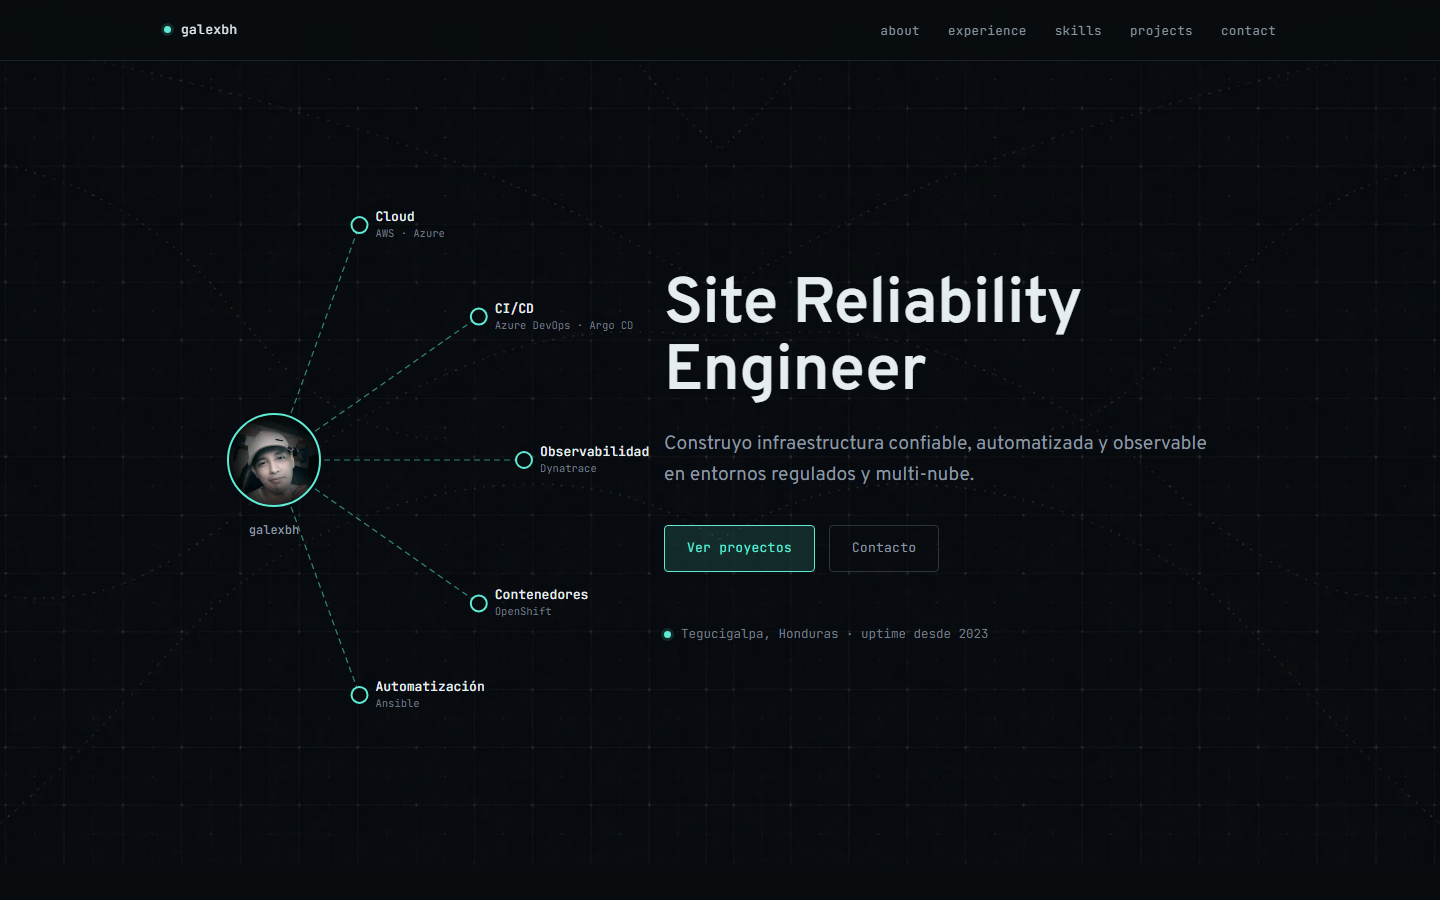
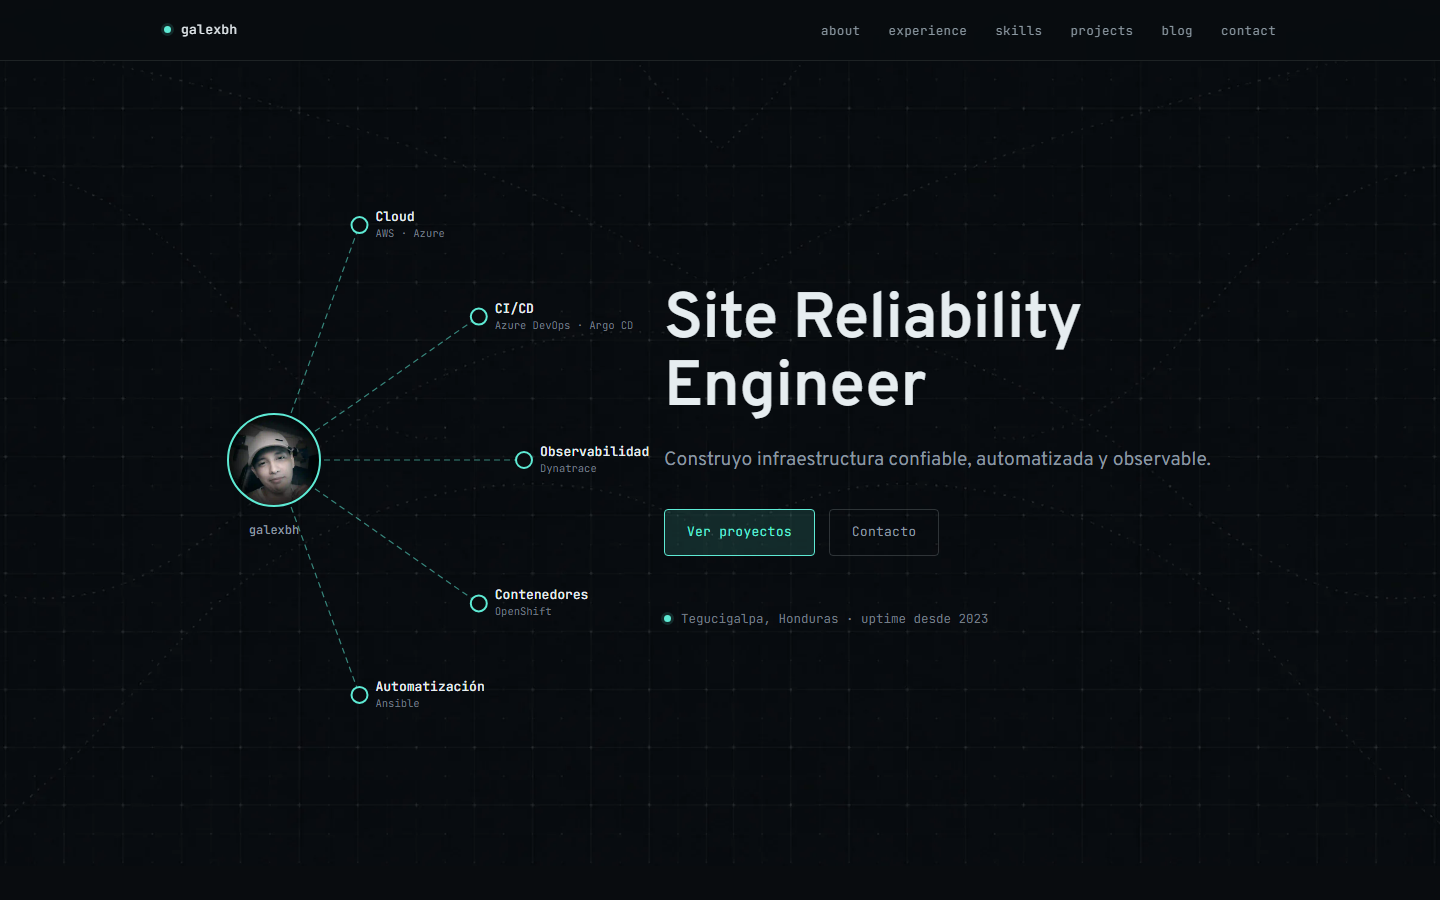
Generalize positioning copy away from banking/regulated framing
Per request: the hero, about, badge, and contact copy read too narrowly as
"regulated banking SRE" — softened to general SRE/production credibility
that still cites the same real facts (ITIL, RCA, metrics, stack) without
gatekeeping the narrative to one industry.

- Hero subheadline: dropped "en entornos regulados y multi-nube"
- About intro: "gestión de incidentes bajo ITIL, en entornos bancarios
  regulados" -> "manejo de prácticas ITIL" (drops the incident-only framing
  and the banking qualifier)
- About closing: "administración de aplicaciones bancarias" -> "aplicaciones
  críticas"
- Badge: "Experiencia en entornos regulados" -> "Experiencia en entornos
  críticos"
- Contact prompt: "¿Buscas SRE con experiencia real en banca regulada?" ->
  "¿Buscas un SRE con experiencia real en producción?"
- Projects block-note: "confidencialidad bancaria" -> "confidencialidad
  empresarial"
- PRODUCT.md (Users/Purpose/Positioning/Principles) and portfolio-spec.md
  updated to match, so both stay accurate to the new positioning

Left untouched, deliberately: real project entries and experience bullets
that describe actual banking-sector work history (INFATLAN, "Administración
de aplicaciones bancarias críticas", etc.) — those are factual work history,
not narrative positioning, and weren't part of what was asked to change.

diff --git a/keystatic.config.ts b/keystatic.config.ts
@@ -33,7 +33,7 @@ export default config({
           { label: 'Vertientes', itemLabel: (p) => p.fields.label.value || 'Vertiente' }
         ),
         aboutClosing: fields.text({ label: 'Sobre mí — párrafo de cierre', multiline: true }),
-        regulatedBadge: fields.text({ label: 'Badge de entornos regulados' }),
+        regulatedBadge: fields.text({ label: 'Badge de entornos críticos' }),
 
         capabilityNodes: fields.array(
           fields.object({

diff --git a/portfolio-spec.md b/portfolio-spec.md
@@ -28,7 +28,7 @@
 Site Reliability Engineer
 
 **Subheadline:**
-Construyo infraestructura confiable, automatizada y observable en entornos regulados y multi-nube.
+Construyo infraestructura confiable, automatizada y observable.
 
 **CTA sugerido:** botón "Ver proyectos" + botón "Contacto" / enlace a CV descargable.
 
@@ -36,7 +36,7 @@ Construyo infraestructura confiable, automatizada y observable en entornos regul
 
 ## 3. Sección About / Sobre mí
 
-Ingeniero en Sistemas con más de 3 años de experiencia en infraestructura, automatización y gestión de incidentes bajo ITIL, en entornos bancarios regulados. Actualmente trabajo como **Site Reliability Engineer**, dentro del equipo de plataformas.
+Ingeniero en Sistemas con más de 3 años de experiencia en infraestructura, automatización y manejo de prácticas ITIL. Actualmente trabajo como **Site Reliability Engineer**, dentro del equipo de plataformas.
 
 En el rol de SRE cubro cinco vertientes principales:
 
@@ -46,7 +46,7 @@ En el rol de SRE cubro cinco vertientes principales:
 - **Contenedores**: administración de clústeres OpenShift.
 - **Automatización**: playbooks de Ansible para configuración e infraestructura.
 
-Esta base se apoya en experiencia previa en gestión de incidentes (RCA, ITIL) y administración de aplicaciones bancarias, sistemas Linux/Windows, y seguridad perimetral — combinando confiabilidad medible, observabilidad end-to-end y automatización as-code.
+Esta base se apoya en experiencia previa en gestión de incidentes (RCA, ITIL) y administración de aplicaciones críticas, sistemas Linux/Windows, y seguridad perimetral — combinando confiabilidad medible, observabilidad end-to-end y automatización as-code.
 
 **Nota para el sitio:** esta sección puede acompañarse de un bloque visual tipo "Stack actual" con logos/íconos de AWS, Azure, Azure DevOps, Argo CD, Dynatrace, OpenShift y Ansible.
 
@@ -256,7 +256,7 @@ Bloque simple con:
 
 - El **stack actual** (AWS, Azure, Azure DevOps, Argo CD, Dynatrace, OpenShift, Ansible) debe tener presencia visual fuerte en Hero o About — es lo que más identifica el perfil de SRE hoy.
 - Las métricas ya cerradas (-35% MTTR, -20% incidentes de seguridad) sirven como prueba social mientras se completan las del rol SRE actual; usarlas en la sección Hero o como "highlights" numéricos (contadores animados, por ejemplo).
-- El trasfondo en banca regulada (aplicaciones bancarias críticas, ITIL, auditoría) es diferenciador frente a otros perfiles SRE junior/mid — vale la pena un badge o sección corta tipo "Experiencia en entornos regulados".
+- El trasfondo en aplicaciones críticas, ITIL y auditoría es diferenciador frente a otros perfiles SRE junior/mid — vale la pena un badge o sección corta tipo "Experiencia en entornos críticos". La narrativa general del sitio (hero, about, badge) se mantiene deliberadamente agnóstica de industria — no se presenta como especialista único en banca — aunque los proyectos empresariales concretos siguen describiendo con precisión el contexto bancario real en el que ocurrieron (ver sección 6.1).
 - Progresión de carrera (Técnico Jr → DevOps → Administrador de Aplicaciones → SRE) funciona bien como timeline visual, mostrando crecimiento continuo en infraestructura y confiabilidad.
 - La separación **Empresarial vs. Personal/OSS** en Projects resuelve la ausencia de repos públicos del trabajo (confidencialidad) sin perder credibilidad: los proyectos empresariales muestran el impacto real (métricas, escala bancaria), mientras que OpenSight y zabbix-installation demuestran código propio y verificable en GitHub.
 - Recordar: **AWS no formó parte de las responsabilidades del rol de Administrador de Aplicaciones** — pertenece únicamente al stack del rol SRE actual y al rol previo de Ingeniero DevOps en Punto HN. No mezclar esa tecnología en la card/timeline del rol de Administrador de Aplicaciones.

diff --git a/PRODUCT.md b/PRODUCT.md
@@ -12,15 +12,15 @@ Astro (static site, no server runtime). Deploy target: Cloudflare Pages, custom 
 
 ## Users
 
-Recruiters, hiring managers, and technical leads (primarily at banks, fintechs, and regulated-industry companies in Centroamérica and remote/LatAm markets) evaluating Gabriel Barrientos (galexbh) for SRE/DevOps/infrastructure roles. Secondary audience: peers/engineers who land on the site via GitHub or LinkedIn and want to see real project depth.
+Recruiters, hiring managers, and technical leads (across industries, in Centroamérica and remote/LatAm markets) evaluating Gabriel Barrientos (galexbh) for SRE/DevOps/infrastructure roles. Secondary audience: peers/engineers who land on the site via GitHub or LinkedIn and want to see real project depth.
 
 ## Product Purpose
 
-A single-page portfolio that proves Gabriel is a credible, currently-practicing SRE with real regulated-banking infrastructure experience (cloud, CI/CD, observability, containers, automation), makes him easy to contact, and gives visitors a fast path to his real code (GitHub) and CV.
+A single-page portfolio that proves Gabriel is a credible, currently-practicing SRE with real production infrastructure experience (cloud, CI/CD, observability, containers, automation), makes him easy to contact, and gives visitors a fast path to his real code (GitHub) and CV.
 
 ## Positioning
 
-Not a generic "full-stack developer" portfolio template. The differentiator is regulated-banking SRE experience (ITIL incident governance, RCA, audits, critical banking application uptime) combined with a concrete current stack (AWS/Azure, Azure DevOps + ArgoCD, Dynatrace, OpenShift, Ansible) — a profile most junior/mid SRE portfolios cannot credibly claim.
+Not a generic "full-stack developer" portfolio template. The differentiator is SRE experience in critical-systems environments (ITIL practices, RCA, incident governance, production uptime for critical applications) combined with a concrete current stack (AWS/Azure, Azure DevOps + ArgoCD, Dynatrace, OpenShift, Ansible) — a profile most junior/mid SRE portfolios cannot credibly claim. Positioning was deliberately generalized (2026-09-03, at Gabriel's request) away from a banking/regulated-industry-specific framing to read as broadly applicable SRE credibility rather than a single-sector specialization.
 
 ## Operating Context
 
@@ -46,7 +46,7 @@ Not a generic "full-stack developer" portfolio template. The differentiator is r
 ## Product Principles
 
 1. Content authority is `portfolio-spec.md` — never invent dates, metrics, or stack claims not present there.
-2. Prove regulated-banking SRE credibility concretely (real stack names, real metrics like -35% MTTR, -20% incidents) rather than generic buzzwords.
+2. Prove SRE credibility concretely (real stack names, real metrics like -35% MTTR, -20% incidents) rather than generic buzzwords or industry-specific gatekeeping.
 3. Keep enterprise vs. personal/OSS projects visually distinct so confidentiality is honest, not evasive.
 4. Motion and visual richness serve scanability and credibility; they never bury the CTA (contact / view projects) or slow the page down.
 5. Real photography of Gabriel only for identity — no AI-generated likeness.
